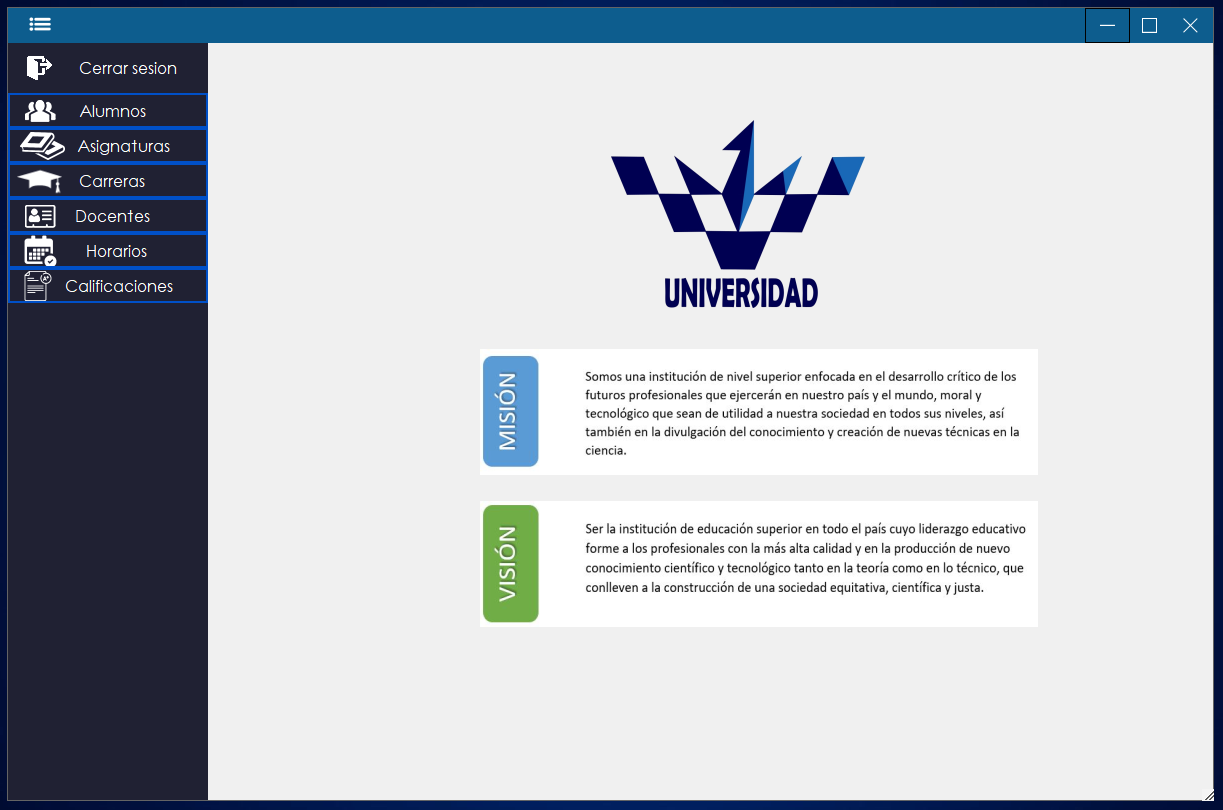
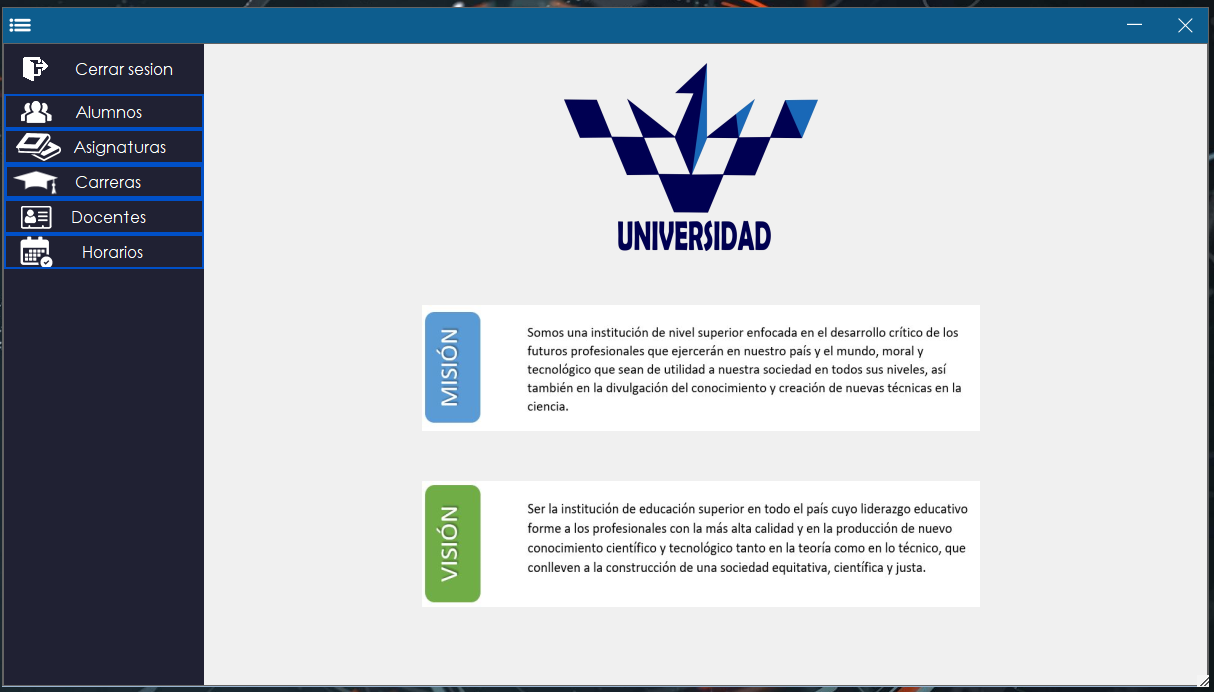
Errors solved and new picture

Changed region(s): [[0.0, 0.0, 1.0, 1.0], [0.3353, 0.4249, 0.8534, 0.8801], [0.4572, 0.091, 0.701, 0.3945]]

diff --git a/SistemaUniversidad/DISEÑO/Menu/MenuAdmin.Designer.cs b/SistemaUniversidad/DISEÑO/Menu/MenuAdmin.Designer.cs
@@ -106,8 +106,8 @@ namespace SistemaUniversidad.DISEÑO.Menu
             this.pictureBox1 = new System.Windows.Forms.PictureBox();
             this.panelContenedor = new System.Windows.Forms.Panel();
             this.btnBuscarCarrera = new System.Windows.Forms.Button();
-            this.panel4 = new System.Windows.Forms.Panel();
             this.dragControlMenuAdmin = new SistemaUniversidad.LOGICA.DragControl();
+            this.panel4 = new System.Windows.Forms.Panel();
             this.pnlSuperiorMenuAdmin.SuspendLayout();
             ((System.ComponentModel.ISupportInitialize)(this.imgMasOpciones)).BeginInit();
             this.pnlContenedor.SuspendLayout();
@@ -258,7 +258,6 @@ namespace SistemaUniversidad.DISEÑO.Menu
             // 
             this.pnlMenuLateral.AutoScroll = true;
             this.pnlMenuLateral.BackColor = System.Drawing.Color.FromArgb(((int)(((byte)(32)))), ((int)(((byte)(33)))), ((int)(((byte)(51)))));
-            this.pnlMenuLateral.Controls.Add(this.panel4);
             this.pnlMenuLateral.Controls.Add(this.pnlSubMenuHorarios);
             this.pnlMenuLateral.Controls.Add(this.btnGestionarHorarios);
             this.pnlMenuLateral.Controls.Add(this.pnlSubMenuDocentes);
@@ -559,9 +558,10 @@ namespace SistemaUniversidad.DISEÑO.Menu
             // pnlSubMenuCarreras
             // 
             this.pnlSubMenuCarreras.Controls.Add(this.btnAgregarCarrera);
+            this.pnlSubMenuCarreras.Controls.Add(this.panel4);
             this.pnlSubMenuCarreras.Controls.Add(this.btnBuscarCarrera);
-            this.pnlSubMenuCarreras.Controls.Add(this.btnEliminarCarrera);
             this.pnlSubMenuCarreras.Controls.Add(this.btnModificarCarrera);
+            this.pnlSubMenuCarreras.Controls.Add(this.btnEliminarCarrera);
             this.pnlSubMenuCarreras.Dock = System.Windows.Forms.DockStyle.Top;
             this.pnlSubMenuCarreras.Location = new System.Drawing.Point(0, 387);
             this.pnlSubMenuCarreras.Name = "pnlSubMenuCarreras";
@@ -578,7 +578,7 @@ namespace SistemaUniversidad.DISEÑO.Menu
             this.btnModificarCarrera.ForeColor = System.Drawing.Color.White;
             this.btnModificarCarrera.Image = ((System.Drawing.Image)(resources.GetObject("btnModificarCarrera.Image")));
             this.btnModificarCarrera.ImageAlign = System.Drawing.ContentAlignment.MiddleLeft;
-            this.btnModificarCarrera.Location = new System.Drawing.Point(2, 60);
+            this.btnModificarCarrera.Location = new System.Drawing.Point(6, 60);
             this.btnModificarCarrera.Name = "btnModificarCarrera";
             this.btnModificarCarrera.Padding = new System.Windows.Forms.Padding(18, 0, 0, 0);
             this.btnModificarCarrera.Size = new System.Drawing.Size(198, 30);
@@ -597,7 +597,7 @@ namespace SistemaUniversidad.DISEÑO.Menu
             this.btnEliminarCarrera.ForeColor = System.Drawing.Color.White;
             this.btnEliminarCarrera.Image = ((System.Drawing.Image)(resources.GetObject("btnEliminarCarrera.Image")));
             this.btnEliminarCarrera.ImageAlign = System.Drawing.ContentAlignment.MiddleLeft;
-            this.btnEliminarCarrera.Location = new System.Drawing.Point(2, 31);
+            this.btnEliminarCarrera.Location = new System.Drawing.Point(6, 31);
             this.btnEliminarCarrera.Name = "btnEliminarCarrera";
             this.btnEliminarCarrera.Padding = new System.Windows.Forms.Padding(15, 0, 0, 0);
             this.btnEliminarCarrera.Size = new System.Drawing.Size(198, 30);
@@ -616,7 +616,7 @@ namespace SistemaUniversidad.DISEÑO.Menu
             this.btnAgregarCarrera.ForeColor = System.Drawing.Color.White;
             this.btnAgregarCarrera.Image = ((System.Drawing.Image)(resources.GetObject("btnAgregarCarrera.Image")));
             this.btnAgregarCarrera.ImageAlign = System.Drawing.ContentAlignment.MiddleLeft;
-            this.btnAgregarCarrera.Location = new System.Drawing.Point(2, 2);
+            this.btnAgregarCarrera.Location = new System.Drawing.Point(6, 2);
             this.btnAgregarCarrera.Name = "btnAgregarCarrera";
             this.btnAgregarCarrera.Padding = new System.Windows.Forms.Padding(15, 0, 0, 0);
             this.btnAgregarCarrera.Size = new System.Drawing.Size(198, 30);
@@ -918,7 +918,7 @@ namespace SistemaUniversidad.DISEÑO.Menu
             this.btnBuscarCarrera.ForeColor = System.Drawing.Color.White;
             this.btnBuscarCarrera.Image = ((System.Drawing.Image)(resources.GetObject("btnBuscarCarrera.Image")));
             this.btnBuscarCarrera.ImageAlign = System.Drawing.ContentAlignment.MiddleLeft;
-            this.btnBuscarCarrera.Location = new System.Drawing.Point(2, 88);
+            this.btnBuscarCarrera.Location = new System.Drawing.Point(6, 88);
             this.btnBuscarCarrera.Name = "btnBuscarCarrera";
             this.btnBuscarCarrera.Padding = new System.Windows.Forms.Padding(16, 0, 0, 0);
             this.btnBuscarCarrera.Size = new System.Drawing.Size(198, 30);
@@ -927,17 +927,17 @@ namespace SistemaUniversidad.DISEÑO.Menu
             this.btnBuscarCarrera.UseVisualStyleBackColor = true;
             this.btnBuscarCarrera.Click += new System.EventHandler(this.btnBuscarCarrera_Click);
             // 
-            // panel4
-            // 
-            this.panel4.BackColor = System.Drawing.Color.FromArgb(((int)(((byte)(0)))), ((int)(((byte)(80)))), ((int)(((byte)(200)))));
-            this.panel4.Location = new System.Drawing.Point(0, 386);
-            this.panel4.Name = "panel4";
-            this.panel4.Size = new System.Drawing.Size(5, 116);
-            this.panel4.TabIndex = 2;
-            // 
             // dragControlMenuAdmin
             // 
             this.dragControlMenuAdmin.SelectControl = null;
+            // 
+            // panel4
+            // 
+            this.panel4.BackColor = System.Drawing.Color.FromArgb(((int)(((byte)(0)))), ((int)(((byte)(80)))), ((int)(((byte)(200)))));
+            this.panel4.Location = new System.Drawing.Point(3, 2);
+            this.panel4.Name = "panel4";
+            this.panel4.Size = new System.Drawing.Size(5, 116);
+            this.panel4.TabIndex = 2;
             // 
             // MenuAdmin
             // 

diff --git a/SistemaUniversidad/DISEÑO/Administrador/Carreras/AgregarCarrera.cs b/SistemaUniversidad/DISEÑO/Administrador/Carreras/AgregarCarrera.cs
@@ -8,6 +8,7 @@ using System.Text;
 using System.Threading.Tasks;
 using System.Runtime.InteropServices;
 using System.Windows.Forms;
+using SistemaUniversidad.DISEÑO.Menu;
 using SistemaUniversidad.LOGICA.DATABASE.Queries;
 
 namespace SistemaUniversidad.DISEÑO.Administrador.Carreras {
